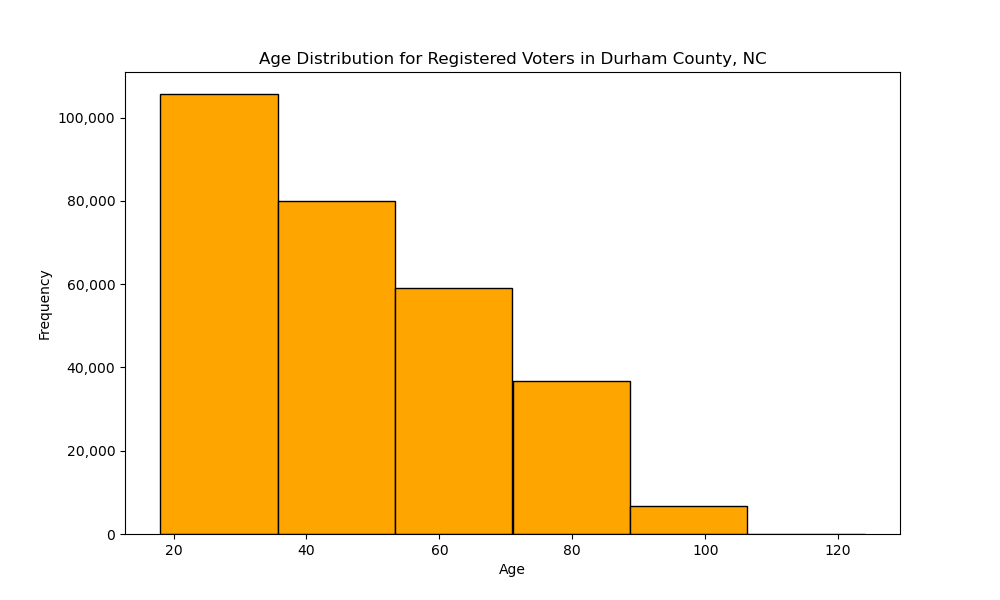
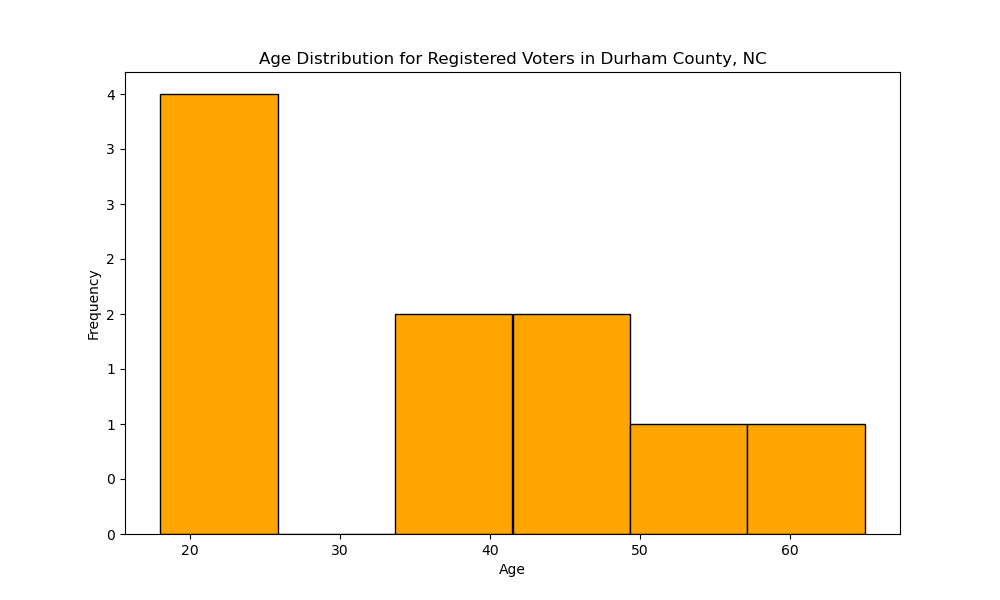
updated tests

diff --git a/test_main.py b/test_main.py
@@ -5,37 +5,37 @@ import os
 import numpy as np
 import pandas as pd
 
-num_rows = 100
+num_rows = 10
 data = pd.DataFrame(
     {
-        "RowID": np.random.randint(0, 201, size=num_rows),
-        "age": np.random.randint(18, 102, size=num_rows),
+        "RowID": np.random.randint(0, 101, size=num_rows),
+        "age": [18, 19, 21, 25, 35, 40, 45, 45, 55, 65],
     }
 )
 
 
-def test_mean_age(data):
+def test_mean_age():
     result1 = mean_age(data)
-    assert 18 <= result1 <= 65
+    assert result1 == 36.8
 
 
-def test_median_age(data):
-    result2 = mean_age(data)
-    assert 18 <= result2 <= 65
+def test_median_age():
+    result2 = median_age(data)
+    assert result2 == 37.5
 
 
-def test_std_age(data):
+def test_std_age():
     result3 = std_age(data)
-    assert 10 <= result3 <= 25
+    assert result3 > 16
 
 
-def test_generate_histogram_age(data):
+def test_generate_histogram_age():
     result4 = generate_histogram_age(data)
     assert result4 is None
 
 
 if __name__ == "__main__":
-    test_mean_age(data)
-    test_median_age(data)
-    test_std_age(data)
-    test_generate_histogram_age(data)
+    test_mean_age()
+    test_median_age()
+    test_std_age()
+    test_generate_histogram_age()
